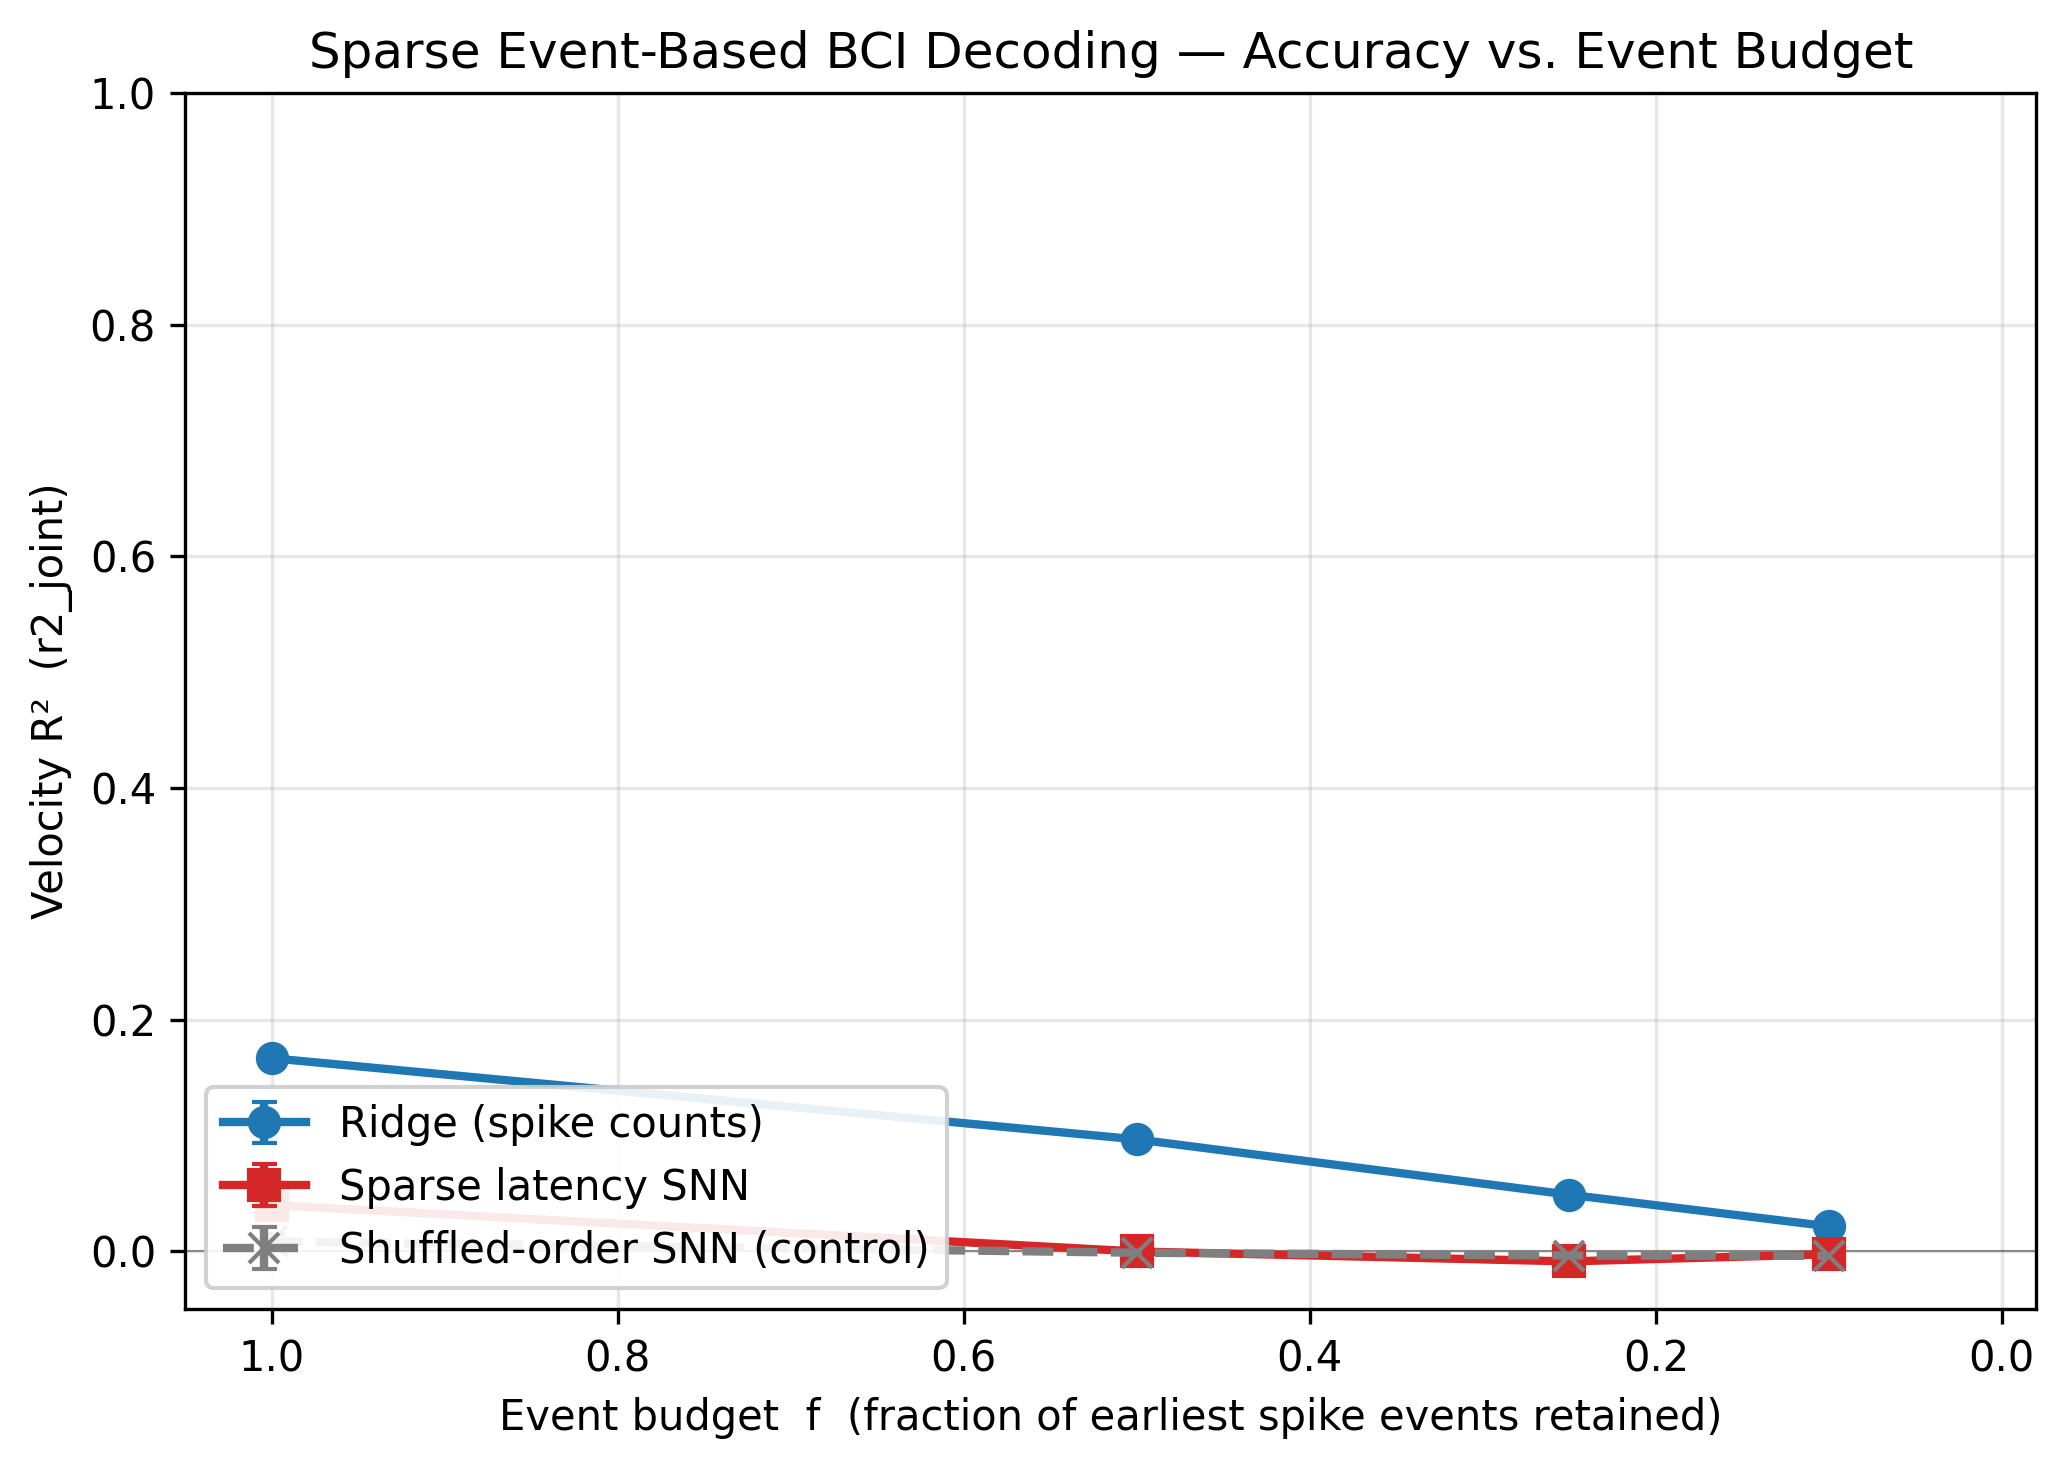
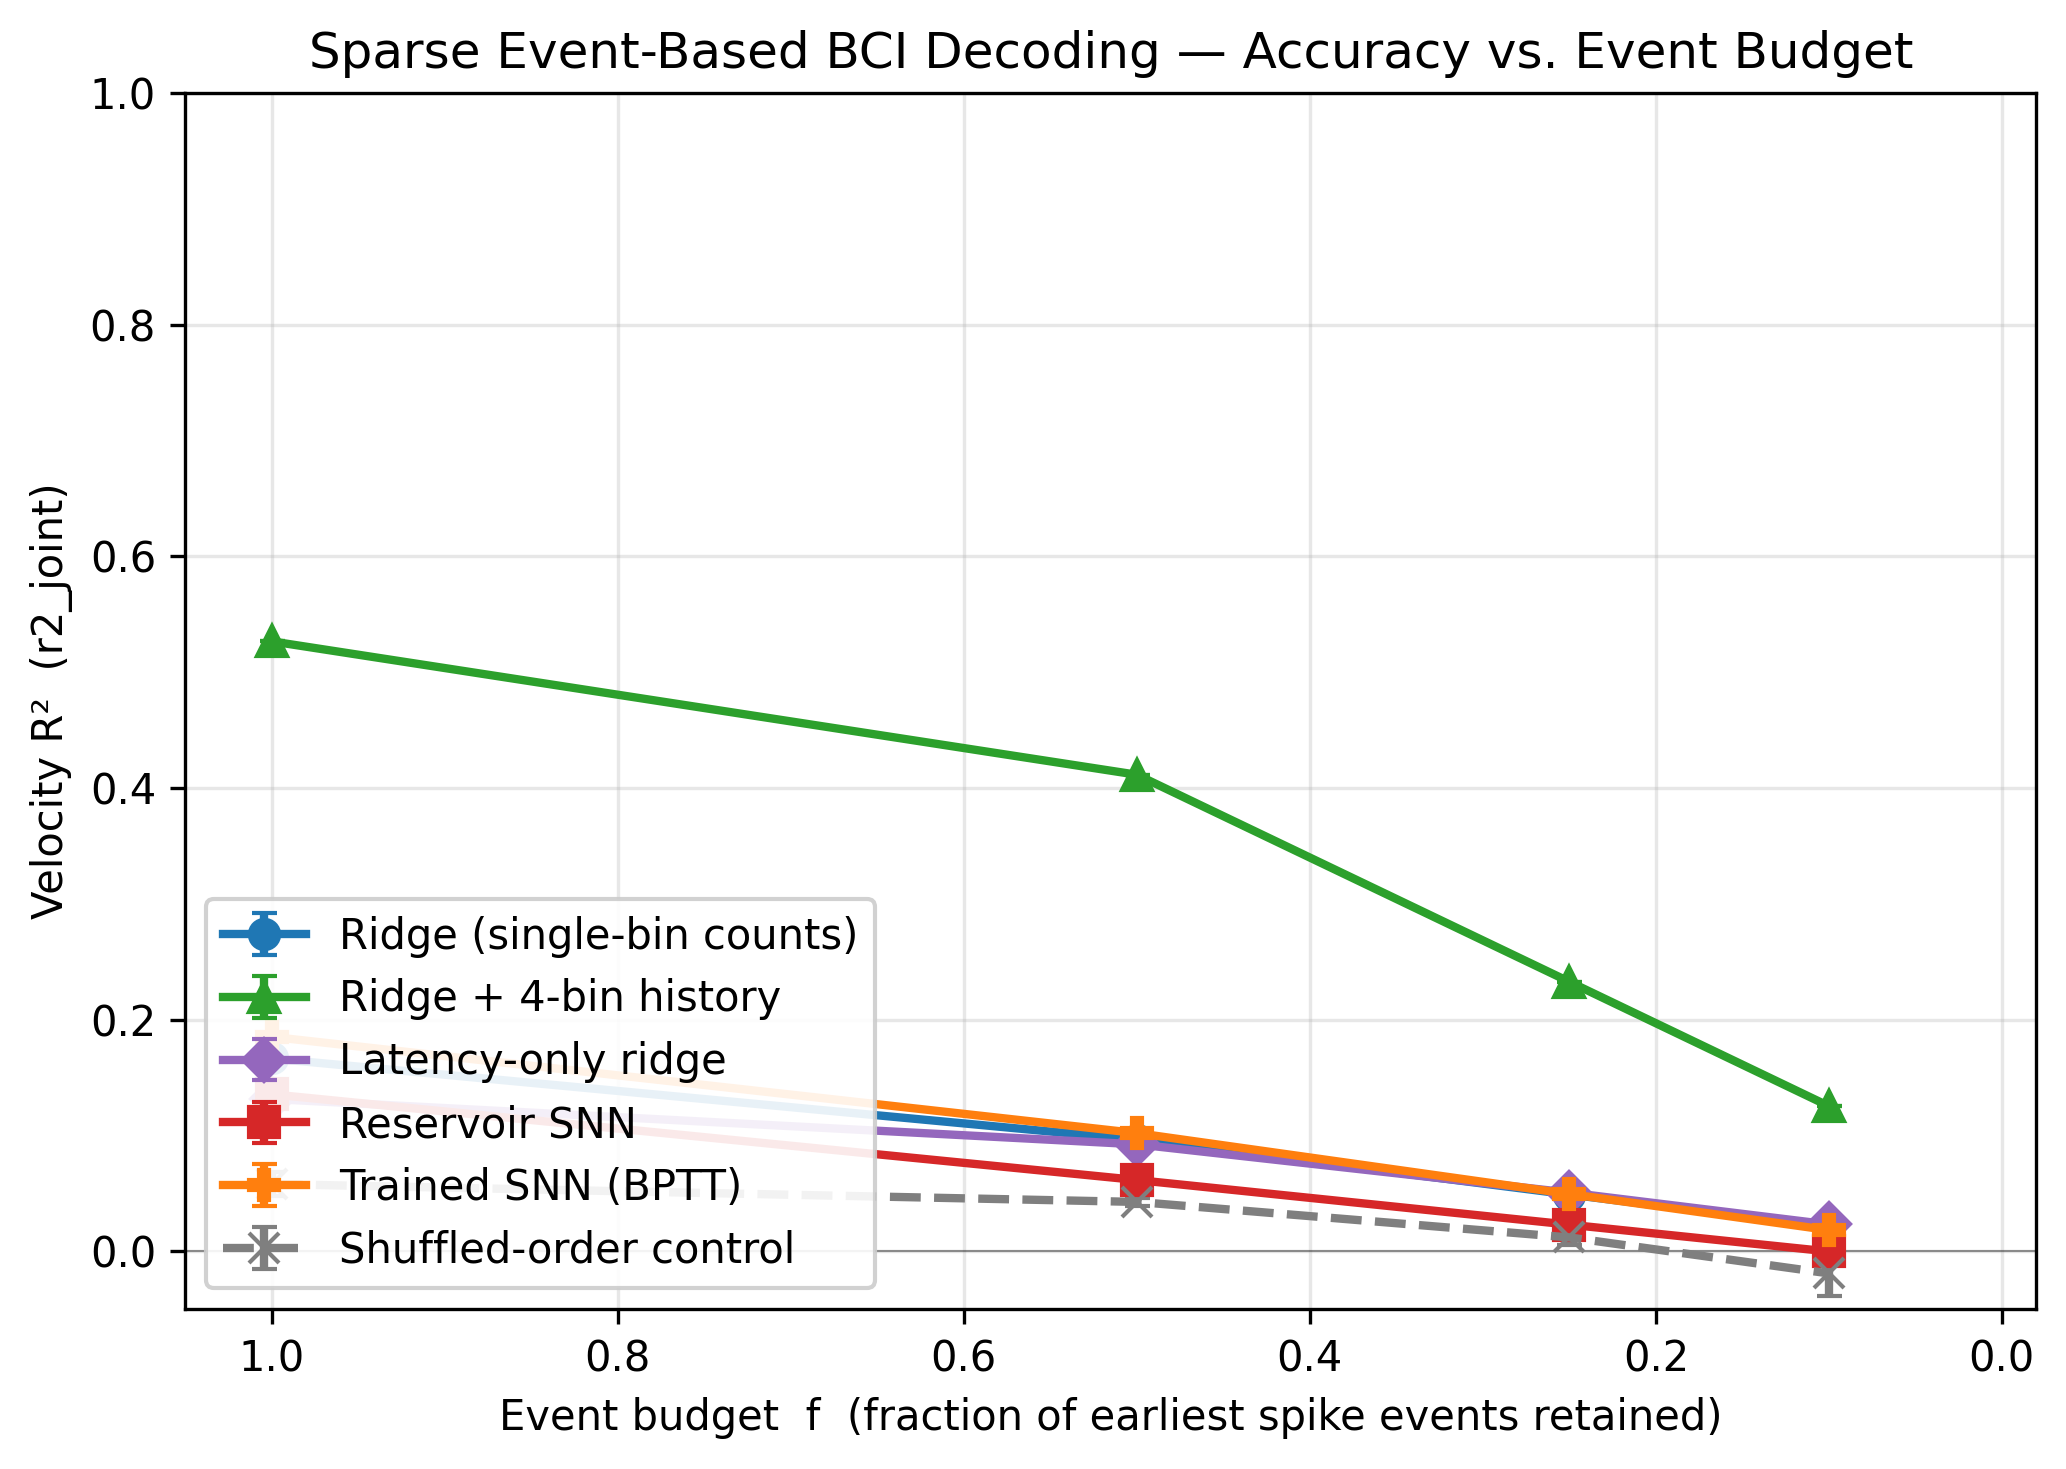
figures: 6-curve frontier + 2D cursor trajectory panel
plot_accuracy_efficiency_frontier auto-discovers every canonical
results JSON under results/* and overlays each model's curve with a
distinct color/marker. Now plots ridge (single-bin), ridge_lag4,
latency-only, reservoir SNN, trained SNN (BPTT), and shuffle control.

plot_trajectory_reconstruction integrates predicted velocity to a 2D
cursor path (one cumsum per axis) and overlays it on the integrated
true path. Both start at the same origin so the comparison is
direction + curvature, not absolute placement. One subplot per
available model.

scripts/generate_final_figures.py now produces three figures:
  * accuracy_efficiency_frontier.png  6-curve overlay at dpi=300
  * velocity_trajectories_f0p25.png   5-row vx/vy panel at dpi=300
  * cursor_trajectories_f0p25.png     5-panel 2D path at dpi=300

diff --git a/scripts/generate_final_figures.py b/scripts/generate_final_figures.py
@@ -1,19 +1,18 @@
-"""Generate the publication-ready final figures from all three models.
+"""Generate the publication-ready final figures from every available model.
 
-Reads:
-  * results/ridge/ridge_results.json
-  * results/snn/snn_results.json
-  * results/controls/shuffle_results.json
+Reads (any missing input is skipped with a warning):
+  * results/ridge/ridge_results.json              count-ridge curve
+  * results/ridge/ridge_lag4_results.json         lag-4 ridge ceiling curve
+  * results/latency/latency_results.json          pure-latency ridge curve
+  * results/snn/snn_results.json                  reservoir SNN curve
+  * results/trained_snn/trained_snn_results.json  trained SNN curve
+  * results/controls/shuffle_results.json         order-shuffle control
   * per-model prediction npz files at the qualitative event budget
 
 Writes (all at dpi=300):
-  * results/figures/accuracy_efficiency_frontier.png
-  * results/figures/velocity_trajectories_f0.25.png
-
-Any missing input is skipped with a warning so the figure can be regenerated
-incrementally as each model finishes. The frontier figure works with one or
-more models; the qualitative figure works with whatever prediction files
-are present.
+  * results/figures/accuracy_efficiency_frontier.png  every available curve overlaid
+  * results/figures/velocity_trajectories_f{budget}.png  per-model true-vs-predicted velocity
+  * results/figures/cursor_trajectories_f{budget}.png   per-model integrated 2D cursor paths
 """
 from __future__ import annotations
 
@@ -27,27 +26,30 @@ sys.path.insert(0, str(Path(__file__).resolve().parents[1]))
 from src.evaluation.plots import (
     plot_accuracy_efficiency_frontier,
     plot_qualitative_trajectories,
+    plot_trajectory_reconstruction,
 )
 
 LOG_FORMAT = "%(asctime)s [%(levelname)-7s] %(name)s: %(message)s"
 logger = logging.getLogger("generate_final_figures")
 
-# Canonical per-model result locations. Adjust here if a path moves.
 TRACKING_JSONS: dict[str, Path] = {
     "ridge": Path("results/ridge/ridge_results.json"),
+    "ridge_lag4": Path("results/ridge/ridge_lag4_results.json"),
+    "latency": Path("results/latency/latency_results.json"),
     "snn": Path("results/snn/snn_results.json"),
+    "trained_snn": Path("results/trained_snn/trained_snn_results.json"),
     "snn_shuffle": Path("results/controls/shuffle_results.json"),
 }
 
-# Per-model prediction npz files used by the qualitative trajectory panel.
 QUALITATIVE_BUDGET = 0.25
 QUALITATIVE_SEED = 0
+_npz = lambda d: Path(f"{d}/predictions_f{QUALITATIVE_BUDGET:.2f}_seed{QUALITATIVE_SEED}.npz")
 PREDICTION_NPZS: dict[str, Path] = {
-    "ridge": Path(f"results/ridge/predictions_f{QUALITATIVE_BUDGET:.2f}_seed{QUALITATIVE_SEED}.npz"),
-    "snn": Path(f"results/snn/predictions_f{QUALITATIVE_BUDGET:.2f}_seed{QUALITATIVE_SEED}.npz"),
-    "snn_shuffle": Path(
-        f"results/controls/predictions_f{QUALITATIVE_BUDGET:.2f}_seed{QUALITATIVE_SEED}.npz"
-    ),
+    "ridge": _npz("results/ridge"),
+    "latency": _npz("results/latency"),
+    "snn": _npz("results/snn"),
+    "trained_snn": _npz("results/trained_snn"),
+    "snn_shuffle": _npz("results/controls"),
 }
 
 FIGURES_DIR = Path("results/figures")
@@ -55,24 +57,11 @@ FIGURES_DIR = Path("results/figures")
 
 def parse_args() -> argparse.Namespace:
     p = argparse.ArgumentParser(description="Generate publication-ready final figures.")
-    p.add_argument(
-        "--qualitative-budget",
-        type=float,
-        default=QUALITATIVE_BUDGET,
-        help="event budget at which to draw the qualitative trajectory panel",
-    )
-    p.add_argument(
-        "--snapshot-seconds",
-        type=float,
-        default=1.5,
-        help="length of the trajectory snapshot in seconds (1-2 s recommended)",
-    )
-    p.add_argument(
-        "--snapshot-start-seconds",
-        type=float,
-        default=0.0,
-        help="offset into the test split where the snapshot starts",
-    )
+    p.add_argument("--qualitative-budget", type=float, default=QUALITATIVE_BUDGET)
+    p.add_argument("--snapshot-seconds", type=float, default=1.5)
+    p.add_argument("--snapshot-start-seconds", type=float, default=0.0)
+    p.add_argument("--trajectory-seconds", type=float, default=6.0,
+                   help="length of the 2D trajectory snapshot for the cursor-path figure")
     p.add_argument("--dpi", type=int, default=300)
     p.add_argument("--figures-dir", type=Path, default=FIGURES_DIR)
     p.add_argument("--log-level", default="INFO")
@@ -92,39 +81,38 @@ def main() -> int:
     logging.basicConfig(level=args.log_level, format=LOG_FORMAT, stream=sys.stdout)
     args.figures_dir.mkdir(parents=True, exist_ok=True)
 
-    # 1. Accuracy-efficiency frontier across whichever models are present
     tracking_present = _available(TRACKING_JSONS, "tracking JSON")
     if tracking_present:
-        frontier_path = args.figures_dir / "accuracy_efficiency_frontier.png"
         plot_accuracy_efficiency_frontier(
             results_jsons=list(tracking_present.values()),
-            out_path=frontier_path,
+            out_path=args.figures_dir / "accuracy_efficiency_frontier.png",
             title="Sparse Event-Based BCI Decoding — Accuracy vs. Event Budget",
             dpi=args.dpi,
         )
-    else:
-        logger.error("no tracking JSON files found; skipping frontier plot")
 
-    # 2. Qualitative true-vs-predicted velocity trajectory panel
     preds_present = _available(PREDICTION_NPZS, "prediction npz")
+    f_str = f"{args.qualitative_budget:.2f}".replace(".", "p")
     if preds_present:
-        f_str = f"{args.qualitative_budget:.2f}".replace(".", "p")
-        traj_path = args.figures_dir / f"velocity_trajectories_f{f_str}.png"
         plot_qualitative_trajectories(
             predictions_paths=preds_present,
-            out_path=traj_path,
+            out_path=args.figures_dir / f"velocity_trajectories_f{f_str}.png",
             snapshot_seconds=args.snapshot_seconds,
             snapshot_start_seconds=args.snapshot_start_seconds,
             event_budget=args.qualitative_budget,
             dpi=args.dpi,
         )
-    else:
-        logger.error("no prediction npz files found; skipping trajectory plot")
+        plot_trajectory_reconstruction(
+            predictions_paths=preds_present,
+            out_path=args.figures_dir / f"cursor_trajectories_f{f_str}.png",
+            snapshot_seconds=args.trajectory_seconds,
+            snapshot_start_seconds=args.snapshot_start_seconds,
+            event_budget=args.qualitative_budget,
+            dpi=args.dpi,
+        )
 
     logger.info(
         "final figures complete; %d tracking JSON(s), %d prediction npz(s) used",
-        len(tracking_present),
-        len(preds_present),
+        len(tracking_present), len(preds_present),
     )
     return 0
 

diff --git a/src/evaluation/plots.py b/src/evaluation/plots.py
@@ -29,14 +29,20 @@ logger = logging.getLogger(__name__)
 
 MODEL_STYLES: dict[str, dict] = {
     "ridge": {"color": "#1f77b4", "marker": "o", "linestyle": "-"},
+    "ridge_lag4": {"color": "#2ca02c", "marker": "^", "linestyle": "-"},
+    "latency": {"color": "#9467bd", "marker": "D", "linestyle": "-"},
     "snn": {"color": "#d62728", "marker": "s", "linestyle": "-"},
+    "trained_snn": {"color": "#ff7f0e", "marker": "P", "linestyle": "-"},
     "snn_shuffle": {"color": "#7f7f7f", "marker": "x", "linestyle": "--"},
 }
 
 MODEL_DISPLAY_NAMES: dict[str, str] = {
-    "ridge": "Ridge (spike counts)",
-    "snn": "Sparse latency SNN",
-    "snn_shuffle": "Shuffled-order SNN (control)",
+    "ridge": "Ridge (single-bin counts)",
+    "ridge_lag4": "Ridge + 4-bin history",
+    "latency": "Latency-only ridge",
+    "snn": "Reservoir SNN",
+    "trained_snn": "Trained SNN (BPTT)",
+    "snn_shuffle": "Shuffled-order control",
 }
 
 
@@ -241,3 +247,87 @@ def plot_qualitative_trajectories(
     fig.savefig(out_path, dpi=dpi, bbox_inches="tight")
     plt.close(fig)
     logger.info("wrote %s (dpi=%d, %d models)", out_path, dpi, n_models)
+
+
+def plot_trajectory_reconstruction(
+    predictions_paths: dict[str, Path],
+    out_path: Path,
+    snapshot_seconds: float = 6.0,
+    snapshot_start_seconds: float = 0.0,
+    event_budget: float | None = None,
+    dpi: int = 300,
+) -> None:
+    """2-D cursor trajectory reconstruction from integrated predicted velocity.
+
+    For each model in `predictions_paths`, integrates `y_pred` (velocity) over
+    time to a position trajectory (starting at the integrated true-velocity
+    start position), and overlays it on the integrated true-velocity ground
+    truth. One subplot per model in a single row.
+
+    Position has an unknown global offset — both paths start at the same
+    integrated origin so the comparison is direction + curvature, not
+    absolute placement.
+    """
+    if not predictions_paths:
+        raise ValueError("predictions_paths is empty")
+
+    models = list(predictions_paths.keys())
+    n = len(models)
+    fig, axes = plt.subplots(1, n, figsize=(4.0 * n + 0.5, 4.0))
+    if n == 1:
+        axes = np.array([axes])
+
+    for i, model in enumerate(models):
+        path = Path(predictions_paths[model])
+        if not path.is_file():
+            logger.warning("predictions file missing for %s: %s", model, path)
+            continue
+        z = np.load(path, allow_pickle=True)
+        y_true = np.asarray(z["y_true"])
+        y_pred = np.asarray(z["y_pred"])
+        bin_size_ms = float(z["bin_size_ms"]) if "bin_size_ms" in z.files else 50.0
+        bin_size_s = bin_size_ms / 1000.0
+        n_bins_total = y_true.shape[0]
+        n_window = max(2, int(round(snapshot_seconds * 1000.0 / bin_size_ms)))
+        start_bin = max(0, min(int(round(snapshot_start_seconds * 1000.0 / bin_size_ms)), n_bins_total - 2))
+        end_bin = min(start_bin + n_window, n_bins_total)
+
+        # Integrate velocity → position, both start at origin.
+        true_pos = np.cumsum(y_true[start_bin:end_bin] * bin_size_s, axis=0)
+        pred_pos = np.cumsum(y_pred[start_bin:end_bin] * bin_size_s, axis=0)
+        true_pos -= true_pos[0]
+        pred_pos -= pred_pos[0]
+
+        style = MODEL_STYLES.get(model, {"color": "tab:blue"})
+        ax = axes[i]
+        ax.plot(true_pos[:, 0], true_pos[:, 1], color="black", linewidth=2.0, label="true")
+        ax.plot(
+            pred_pos[:, 0], pred_pos[:, 1],
+            color=style.get("color", "tab:blue"),
+            linewidth=1.6, alpha=0.85, label="reconstructed",
+        )
+        ax.scatter([0], [0], marker="o", color="black", zorder=3)
+        ax.set_aspect("equal", adjustable="datalim")
+        ax.grid(True, alpha=0.3)
+        ax.set_title(MODEL_DISPLAY_NAMES.get(model, model))
+        ax.set_xlabel("x")
+        if i == 0:
+            ax.set_ylabel("y")
+        if i == n - 1:
+            ax.legend(loc="best", fontsize=9, framealpha=0.9)
+        logger.info(
+            "trajectory panel for %s: bins=[%d, %d), %.2fs window",
+            model, start_bin, end_bin, (end_bin - start_bin) * bin_size_s,
+        )
+
+    budget_str = f"f = {event_budget:.2f}" if event_budget is not None else ""
+    suptitle = "Reconstructed 2D cursor trajectories from integrated predicted velocity"
+    if budget_str:
+        suptitle += f"  ({budget_str})"
+    fig.suptitle(suptitle, y=1.02)
+    fig.tight_layout()
+    out_path = Path(out_path)
+    out_path.parent.mkdir(parents=True, exist_ok=True)
+    fig.savefig(out_path, dpi=dpi, bbox_inches="tight")
+    plt.close(fig)
+    logger.info("wrote %s (dpi=%d, %d models)", out_path, dpi, n)
